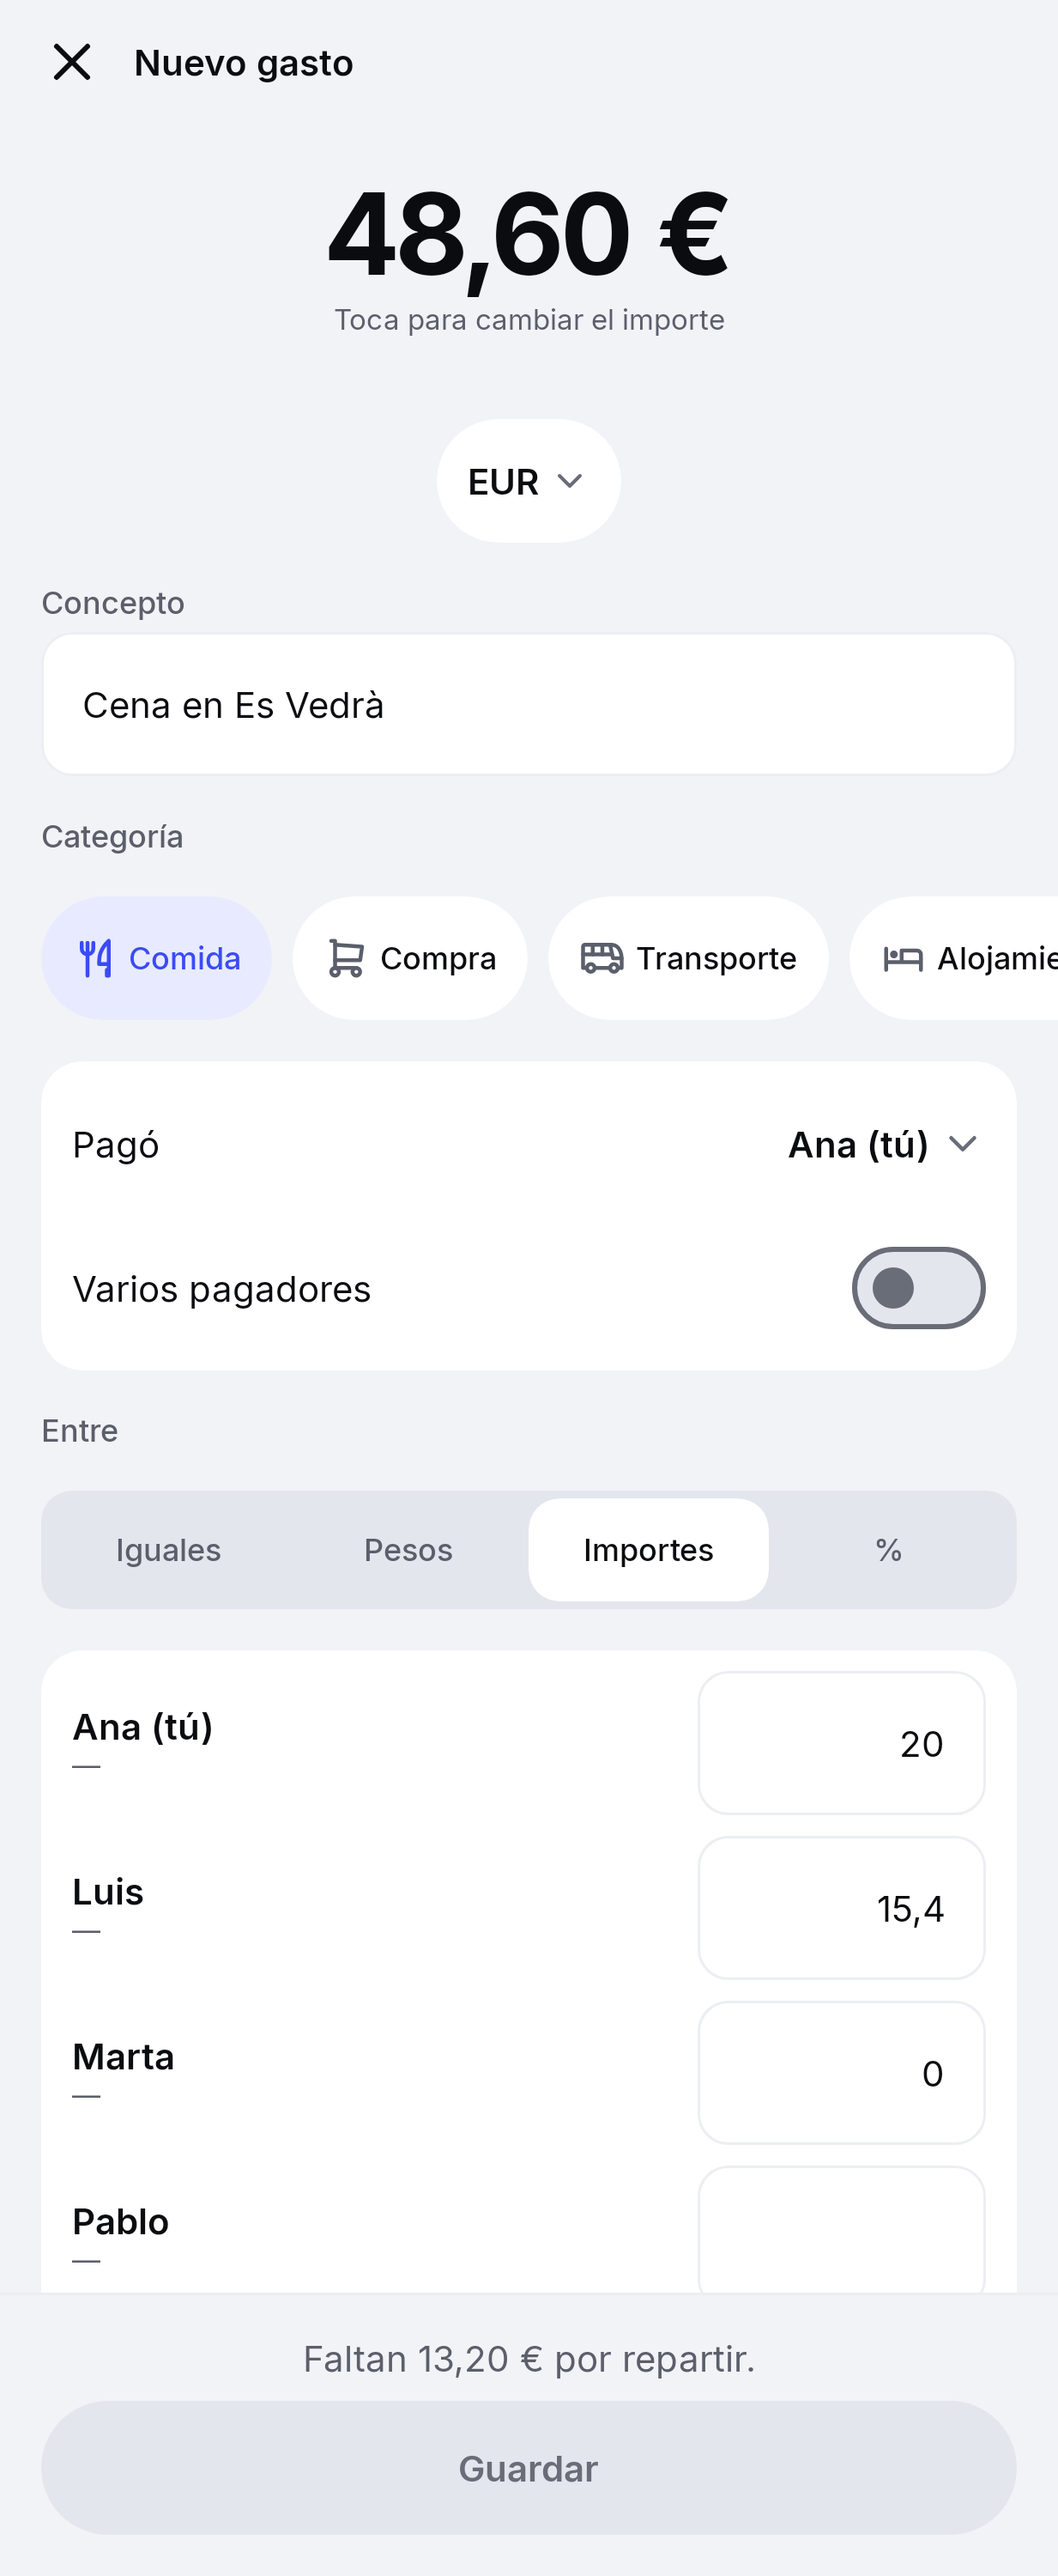
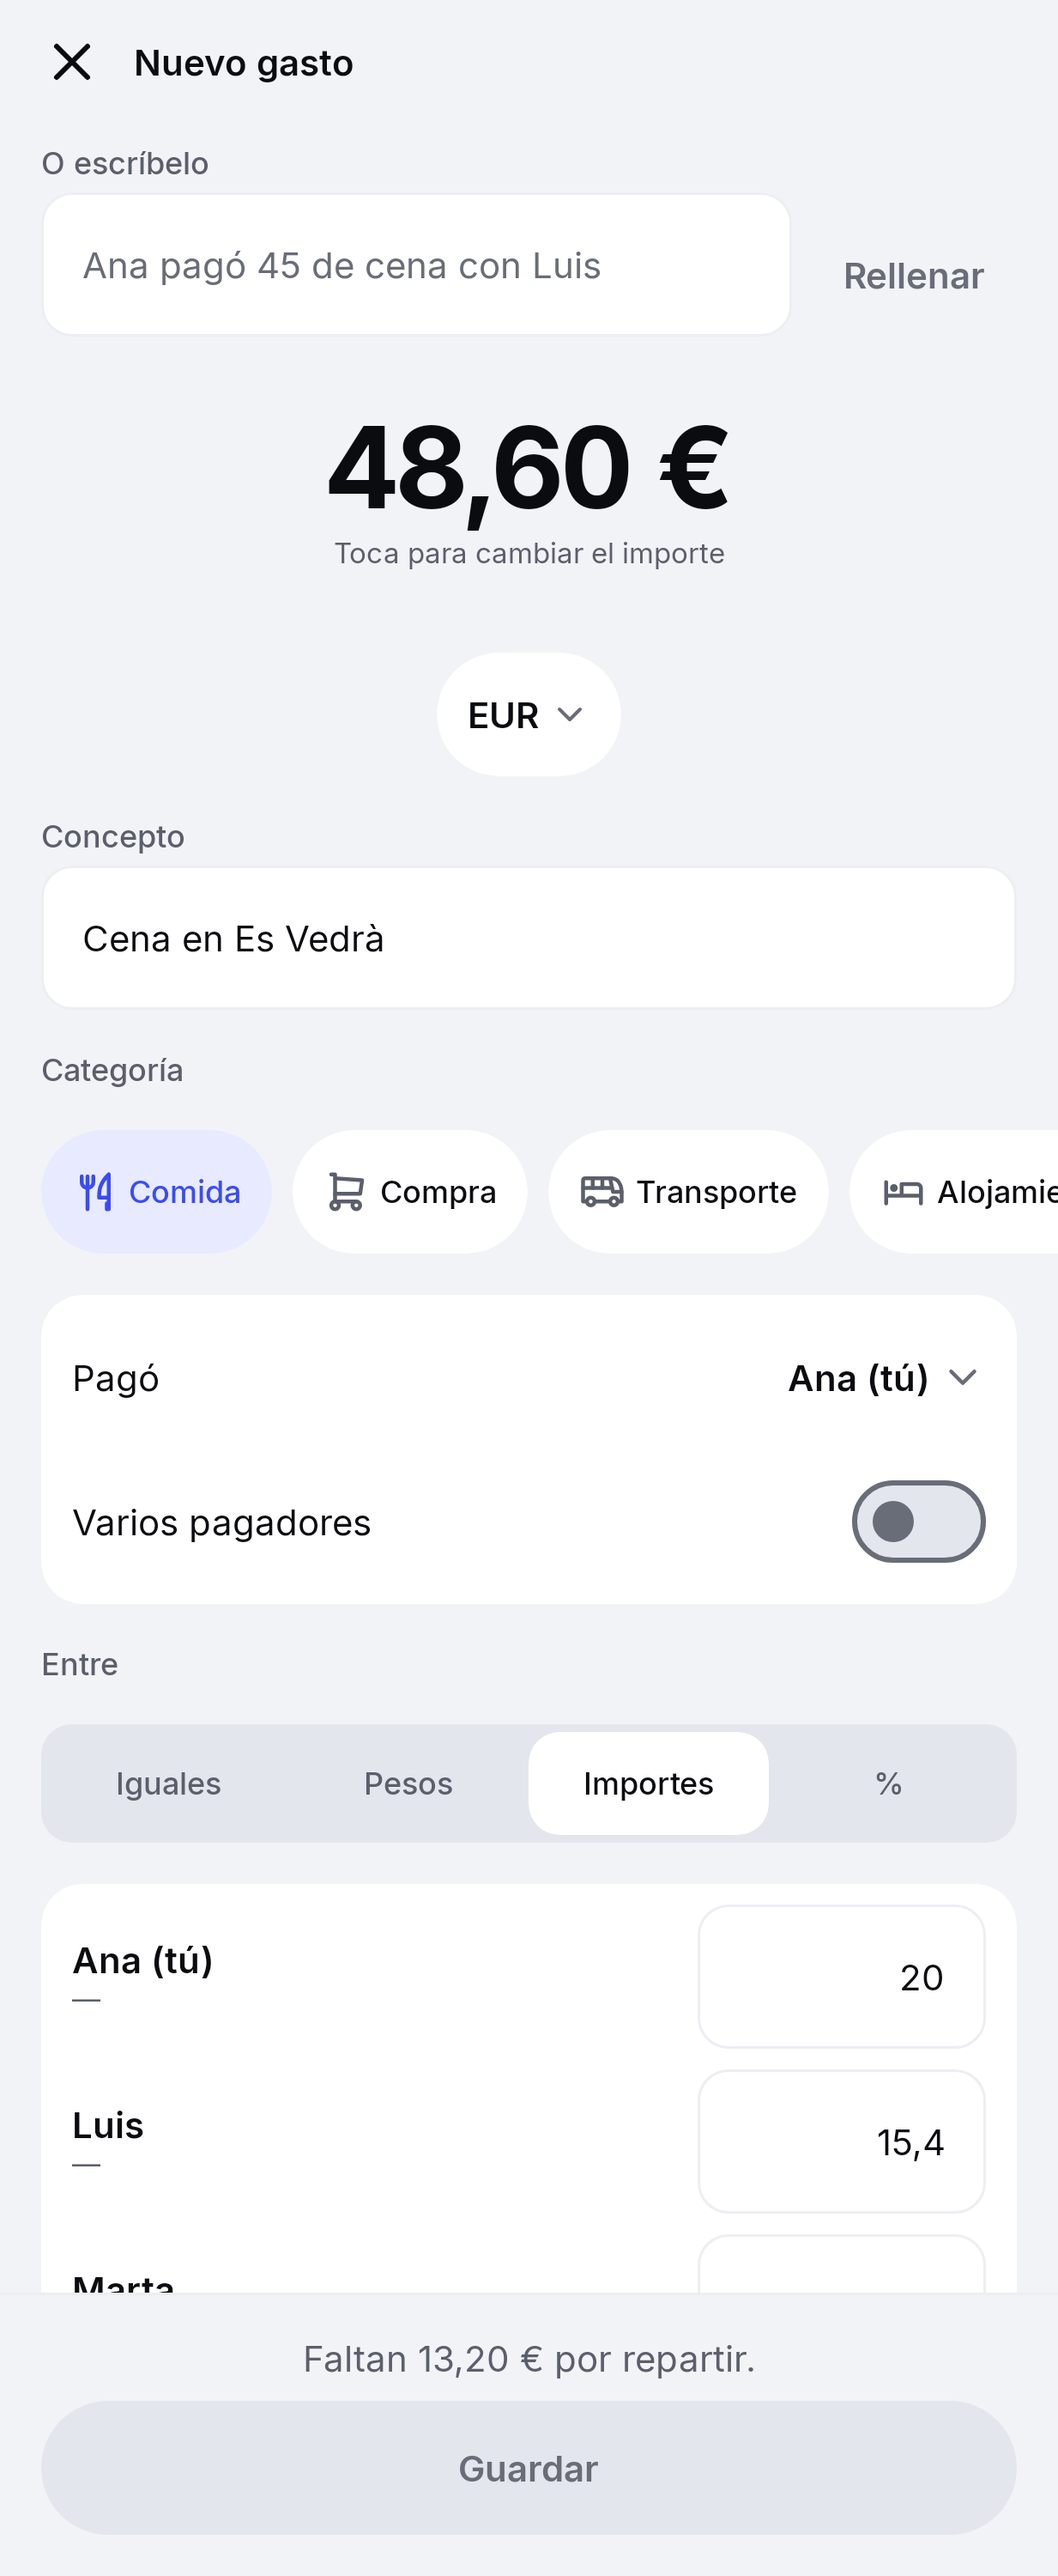
fix(expense): keep the typed-sentence field focused and close the keyboard after filling in

diff --git a/domain/usecases/src/commonMain/kotlin/es/sebas1705/owlsplit/domain/usecases/expenses/QuickEntry.kt b/domain/usecases/src/commonMain/kotlin/es/sebas1705/owlsplit/domain/usecases/expenses/QuickEntry.kt
@@ -156,12 +156,15 @@ object QuickEntryParser {
     private const val DECIMAL_BASE = 10L
     private const val MIN_NAME = 2
 
-    private val ACCENTS = mapOf('á' to 'a', 'é' to 'e', 'í' to 'i', 'ó' to 'o', 'ú' to 'u', 'ü' to 'u', 'à' to 'a',
-        'è' to 'e', 'ò' to 'o', 'ï' to 'i', 'ç' to 'c')
+    private val ACCENTS = mapOf(
+        'á' to 'a', 'é' to 'e', 'í' to 'i', 'ó' to 'o', 'ú' to 'u', 'ü' to 'u', 'à' to 'a',
+        'è' to 'e', 'ò' to 'o', 'ï' to 'i', 'ç' to 'c'
+    )
     private val CURRENCY_WORDS = setOf("€", "eur", "euro", "euros", "$", "dolares", "dollars", "usd")
     private val ME_WORDS = setOf("yo", "mi", "me", "i", "myself")
     private val PAID_ME = setOf("pague", "puse")
     private val PAID = setOf("pago", "pagado", "paid", "pays", "puso", "pone")
+
     /** "ha pagado", "has paid"; "he pagado" is me. */
     private val AUXILIARIES = setOf("ha", "he", "has", "have")
     private val AUX_ME = setOf("he", "have")
@@ -170,25 +173,39 @@ object QuickEntryParser {
     private val BETWEEN_WORDS = setOf("entre", "between")
     private val ALL_WORDS = setOf("todos", "todas", "everyone", "everybody", "all")
     private val LIST_JOINERS = setOf("y", "e", "and", ",", "&")
-    private val EDGE_WORDS = setOf("de", "del", "la", "el", "los", "las", "en", "por", "para", "un", "una", "for",
-        "the", "a", "an", "on", "of", "y", "and")
+    private val EDGE_WORDS = setOf(
+        "de", "del", "la", "el", "los", "las", "en", "por", "para", "un", "una", "for",
+        "the", "a", "an", "on", "of", "y", "and"
+    )
 
     /** Words that give the category away, without accents. */
     private val CATEGORIES: Map<ExpenseCategory, Set<String>> = mapOf(
-        ExpenseCategory.FOOD to setOf("cena", "comida", "almuerzo", "desayuno", "restaurante", "bar", "cafe", "cafes",
-            "tapas", "pizza", "cervezas", "copas", "dinner", "lunch", "breakfast", "restaurant", "coffee", "drinks"),
-        ExpenseCategory.GROCERIES to setOf("super", "supermercado", "mercadona", "compra", "lidl", "carrefour",
-            "groceries", "supermarket"),
-        ExpenseCategory.TRANSPORT to setOf("taxi", "uber", "cabify", "gasolina", "tren", "bus", "autobus", "metro",
-            "parking", "peaje", "avion", "vuelo", "vuelos", "train", "fuel", "flight", "flights"),
-        ExpenseCategory.ACCOMMODATION to setOf("hotel", "airbnb", "apartamento", "hostal", "alojamiento", "booking",
-            "accommodation", "hostel"),
-        ExpenseCategory.LEISURE to setOf("cine", "entradas", "concierto", "museo", "fiesta", "discoteca", "cinema",
-            "tickets", "concert", "museum", "party"),
+        ExpenseCategory.FOOD to setOf(
+            "cena", "comida", "almuerzo", "desayuno", "restaurante", "bar", "cafe", "cafes",
+            "tapas", "pizza", "cervezas", "copas", "dinner", "lunch", "breakfast", "restaurant", "coffee", "drinks"
+        ),
+        ExpenseCategory.GROCERIES to setOf(
+            "super", "supermercado", "mercadona", "compra", "lidl", "carrefour",
+            "groceries", "supermarket"
+        ),
+        ExpenseCategory.TRANSPORT to setOf(
+            "taxi", "uber", "cabify", "gasolina", "tren", "bus", "autobus", "metro",
+            "parking", "peaje", "avion", "vuelo", "vuelos", "train", "fuel", "flight", "flights"
+        ),
+        ExpenseCategory.ACCOMMODATION to setOf(
+            "hotel", "airbnb", "apartamento", "hostal", "alojamiento", "booking",
+            "accommodation", "hostel"
+        ),
+        ExpenseCategory.LEISURE to setOf(
+            "cine", "entradas", "concierto", "museo", "fiesta", "discoteca", "cinema",
+            "tickets", "concert", "museum", "party"
+        ),
         ExpenseCategory.SHOPPING to setOf("ropa", "tienda", "clothes", "shopping"),
         ExpenseCategory.HOME to setOf("alquiler", "piso", "casa", "limpieza", "rent", "cleaning"),
-        ExpenseCategory.UTILITIES to setOf("luz", "agua", "internet", "wifi", "gas", "factura", "electricity",
-            "water", "bill"),
+        ExpenseCategory.UTILITIES to setOf(
+            "luz", "agua", "internet", "wifi", "gas", "factura", "electricity",
+            "water", "bill"
+        ),
         ExpenseCategory.HEALTH to setOf("farmacia", "medico", "pharmacy", "doctor"),
         ExpenseCategory.GIFTS to setOf("regalo", "regalos", "cumple", "cumpleanos", "gift", "gifts", "birthday"),
     )

diff --git a/feature/expense/src/commonMain/kotlin/es/sebas1705/owlsplit/feature/expense/ExpenseEditorScreen.kt b/feature/expense/src/commonMain/kotlin/es/sebas1705/owlsplit/feature/expense/ExpenseEditorScreen.kt
@@ -1,6 +1,7 @@
 package es.sebas1705.owlsplit.feature.expense
 
 import androidx.compose.ui.focus.onFocusChanged
+import androidx.compose.ui.platform.LocalFocusManager
 import androidx.compose.ui.draw.clip
 import androidx.compose.foundation.ScrollState
 import androidx.compose.foundation.layout.ColumnScope
@@ -171,6 +172,10 @@ fun ExpenseEditorScreen(
                 }
             }
         }
+        // Outside the body: it stays the same field (and keeps its focus) when the keypad closes.
+        if (!state.editing) {
+            Box(Modifier.padding(horizontal = Spacing.l, vertical = Spacing.s)) { QuickEntry(state, onEvent) }
+        }
         val scroll = rememberScrollState()
         EditorBody(state, onEvent, format, currency, myMemberId, scroll)
         BottomActionBar(contentBelow = !state.keypadOpen && scroll.canScrollForward) {
@@ -205,7 +210,6 @@ private fun ColumnScope.EditorBody(
             Modifier.weight(1f).padding(horizontal = Spacing.l),
             verticalArrangement = Arrangement.spacedBy(Spacing.l),
         ) {
-            if (!state.editing) QuickEntry(state, onEvent)
             Amount(state, format, currency) { onEvent(ExpenseEditorIntent.KeypadOpen(false)) }
             CurrencyLine(state, format, onEvent)
             Spacer(Modifier.weight(1f))
@@ -220,7 +224,6 @@ private fun ColumnScope.EditorBody(
             Modifier.weight(1f).verticalScroll(scroll).padding(horizontal = Spacing.l),
             verticalArrangement = Arrangement.spacedBy(Spacing.l),
         ) {
-            if (!state.editing) QuickEntry(state, onEvent)
             Amount(state, format, currency) { onEvent(ExpenseEditorIntent.KeypadOpen(true)) }
             CurrencyLine(state, format, onEvent)
             Details(state, onEvent, format, currency, myMemberId)
@@ -234,6 +237,7 @@ private fun ColumnScope.EditorBody(
  */
 @Composable
 private fun QuickEntry(state: ExpenseEditorState, onEvent: (ExpenseEditorIntent) -> Unit) {
+    val focus = LocalFocusManager.current
     Row(verticalAlignment = Alignment.Bottom, horizontalArrangement = Arrangement.spacedBy(Spacing.s)) {
         OwlsplitTextField(
             value = state.quickText,
@@ -242,11 +246,21 @@ private fun QuickEntry(state: ExpenseEditorState, onEvent: (ExpenseEditorIntent)
             placeholder = stringResource(Res.string.quick_placeholder),
             modifier = Modifier
                 .weight(1f)
-                .onFocusChanged { if (it.isFocused && state.keypadOpen) onEvent(ExpenseEditorIntent.KeypadOpen(false)) },
+                .onFocusChanged {
+                    if (it.isFocused && state.keypadOpen) {
+                        onEvent(
+                            ExpenseEditorIntent.KeypadOpen(false)
+                        )
+                    }
+                },
         )
         TextActionButton(
             stringResource(Res.string.quick_apply),
-            { onEvent(ExpenseEditorIntent.ApplyQuickText) },
+            {
+                // The keyboard goes away so the filled-in form shows.
+                focus.clearFocus()
+                onEvent(ExpenseEditorIntent.ApplyQuickText)
+            },
             enabled = state.quickText.isNotBlank(),
         )
     }

diff --git a/feature/expense/src/commonTest/kotlin/es/sebas1705/owlsplit/feature/expense/ExpenseEditorTest.kt b/feature/expense/src/commonTest/kotlin/es/sebas1705/owlsplit/feature/expense/ExpenseEditorTest.kt
@@ -111,6 +111,28 @@ class ExpenseEditorTest {
     }
 
     @Test
+    fun aTypedSentenceFillsTheFormToCheckBeforeSaving() = runTest {
+        val (g, ana, luis) = group()
+        ledger.members.add(g, MemberInput("Marta"))
+        val vm = editor(g)
+
+        vm.onEvent(ExpenseEditorIntent.QuickTextChanged("Luis pagó 45 de cena con Ana"))
+        vm.onEvent(ExpenseEditorIntent.ApplyQuickText)
+
+        val state = vm.uiState.value
+        assertEquals(4_500, state.draft.amountMinor)
+        assertEquals("45", state.amount.text(','))
+        assertEquals("Cena", state.draft.title)
+        assertEquals(ExpenseCategory.FOOD, state.draft.category)
+        assertEquals(luis, state.draft.payerId)
+        // Marta is not in it: only Luis and Ana, half each.
+        assertEquals(mapOf(luis to 2_250L, ana to 2_250L), state.check.shares)
+        assertEquals("", state.quickText)
+        assertFalse(state.keypadOpen)
+        assertTrue(state.check.canSave)
+    }
+
+    @Test
     fun exactAmountsFollowTheTotalUntilEditedAndSayWhatIsMissing() = runTest {
         val (g, ana, luis) = group()
         val vm = editor(g)
